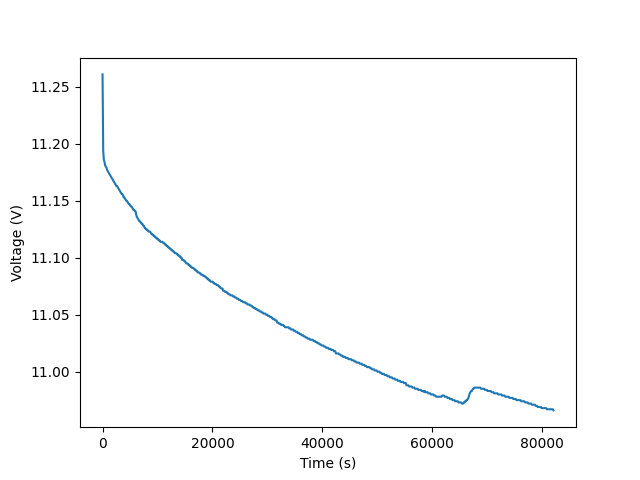
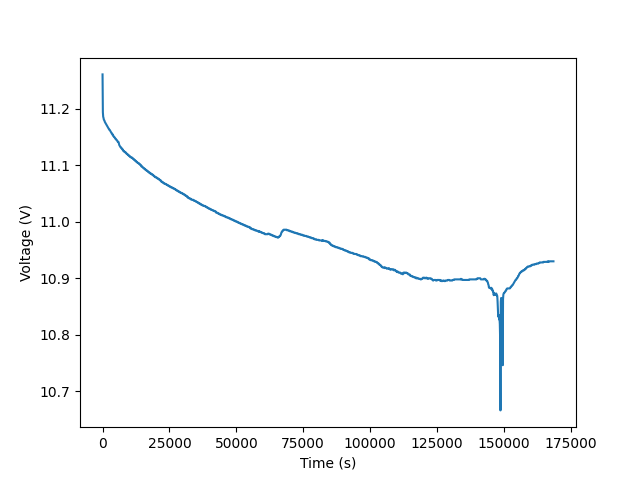
Update files

diff --git a/code/PowerSupplyDataCollector.py b/code/PowerSupplyDataCollector.py
@@ -18,13 +18,13 @@ hour = 60 * min
 day = 24 * hour
 
 # Parameters
-RUN_ID = "2"
+RUN_ID = "3"
 COM_PORT = "COM3"
 CC_CURRENT = 2 # CC current in A
 CC_VOLTAGE = 9*1.50 # CC max voltage in V
-MEASURING_TIME = 20 * hour # Measuring time in s
+MEASURING_TIME = 48 * hour # Measuring time in s
 MEASURING_INTERVAL = 2 * min # Measuring interval in s
-NUMBER_OF_TIMES_TO_PLOT = 10 # Amount of times to do plotting during the measure interval
+NUMBER_OF_TIMES_TO_PLOT = 20 # Amount of times to do plotting during the measure interval
 
 def byte_to_float(b):
     return float(b.decode())

diff --git a/code/DischargeDataCollector.py b/code/DischargeDataCollector.py
@@ -17,10 +17,10 @@ hour = 60 * min
 day = 24 * hour
 
 # Parameters
-RUN_ID = "2.1"
+RUN_ID = "3"
 COM_PORT = "COM4"
-CW_POWER = 6 # CW power in W
-MEASURING_TIME = 48 * hour # Measuring time in s
+CW_POWER = 12 # CW power in W
+MEASURING_TIME = 72 * hour # Measuring time in s
 MEASURING_INTERVAL = 2 * min # Measuring interval in s
 NUMBER_OF_TIMES_TO_PLOT = 40 # Amount of times to do plotting during the measure interval
 

diff --git a/code/PowerSupplyDataPlotter.py b/code/PowerSupplyDataPlotter.py
@@ -13,10 +13,10 @@ hour = 60 * min
 day = 24 * hour
 
 # Parameters
-RUN_ID = "1"
+RUN_ID = "3"
 CC_CURRENT = 2 # CC current in A
 CC_VOLTAGE = 9*1.50 # CC max voltage in V
-MEASURING_TIME = 20 * hour # Measuring time in s
+MEASURING_TIME = 48 * hour # Measuring time in s
 MEASURING_INTERVAL = 2 * min # Measuring interval in s
 NUMBER_OF_TIMES_TO_PLOT = 10 # Amount of times to do plotting during the measure interval
 
